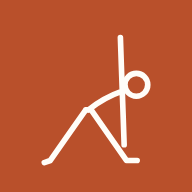
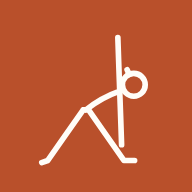
Add a nose to the stick figures to show facing
Side-view figures get a small tick on the head pointing the way the
body faces; figures facing the viewer get a dot. Poses where the head
is turned (twists, lateral standing poses, inversions) set their own
direction.

Claude-Session: https://claude.ai/code/session_01SKrVk6CvWgj4RE7AshMiyY

Changed region(s): [[0.1875, 0.1562, 0.8125, 0.875]]

diff --git a/js/asanas.js b/js/asanas.js
@@ -37,29 +37,29 @@ const A = [
   ['utkatasana', 'Utkatasana', 'Chair pose', 'standing', 0,
     { s: [72, 68], h: 68, a: [66, 66], l: [-35, -110, 0] }],
   ['utthita_trikonasana', 'Utthita Trikonasana', 'Triangle pose', 'standing', 1,
-    { v: 'f', lL: WIDE_L, lR: WIDE_R, s: [34, 24], h: 24, aL: [92, 92], aR: [-88, -88] }],
+    { v: 'f', lL: WIDE_L, lR: WIDE_R, s: [34, 24], h: 24, aL: [92, 92], aR: [-88, -88], n: 114 }],
   ['utthita_parsvakonasana', 'Utthita Parsvakonasana', 'Extended side angle', 'standing', 1,
-    { v: 'f', lL: LUNGE_L, lR: LUNGE_R, s: [48, 40], h: 44, aL: [36, 36], aR: { to: 'floor', dx: 0.4, fit: 1 } }],
+    { v: 'f', lL: LUNGE_L, lR: LUNGE_R, s: [48, 40], h: 44, aL: [36, 36], aR: { to: 'floor', dx: 0.4, fit: 1 }, n: 130 }],
   ['virabhadrasana_1', 'Virabhadrasana I', 'Warrior I', 'standing', 1,
     { s: [90, 94], h: 98, a: [92, 92], lR: [-8, -90, 0], lL: [-145, -145, 0] }],
   ['virabhadrasana_2', 'Virabhadrasana II', 'Warrior II', 'standing', 1,
-    { v: 'f', lL: LUNGE_L, lR: LUNGE_R, aL: [180, 180], aR: [0, 0] }],
+    { v: 'f', lL: LUNGE_L, lR: LUNGE_R, aL: [180, 180], aR: [0, 0], n: 0 }],
   ['virabhadrasana_3', 'Virabhadrasana III', 'Warrior III', 'standing', 1,
     { s: [0, 0], h: 8, a: [0, 0], lR: [-90, -90, 0], lL: [180, 180, [-90, 0.8]] }],
   ['ardha_chandrasana', 'Ardha Chandrasana', 'Half moon', 'standing', 1,
-    { v: 'f', s: [-8, -12], h: -6, lR: [-90, -90, 0], lL: [176, 176, [-90, 0.6]], aL: [90, 90], aR: { to: 'floor', dx: 0.2, fit: 1 } }],
+    { v: 'f', s: [-8, -12], h: -6, lR: [-90, -90, 0], lL: [176, 176, [-90, 0.6]], aL: [90, 90], aR: { to: 'floor', dx: 0.2, fit: 1 }, n: 84 }],
   ['parivrtta_trikonasana', 'Parivrtta Trikonasana', 'Revolved triangle', 'standing', 1,
-    { v: 'f', lL: [-118, -118, [-160, 0.6]], lR: [-62, -62, 0], s: [2, -8], h: 0, aL: [92, 92], aR: { to: 'floor', dx: 0.3, fit: 1 } }],
+    { v: 'f', lL: [-118, -118, [-160, 0.6]], lR: [-62, -62, 0], s: [2, -8], h: 0, aL: [92, 92], aR: { to: 'floor', dx: 0.3, fit: 1 }, n: 90 }],
   ['parivrtta_parsvakonasana', 'Parivrtta Parsvakonasana', 'Revolved side angle', 'standing', 1,
-    { s: [36, 30], h: 30, lR: [-8, -90, 0], lL: [-146, -146, [-60, 0.7]], aR: [30, 30], aL: { to: 'floor', dx: 0.2, fit: 1 } }],
+    { s: [36, 30], h: 30, lR: [-8, -90, 0], lL: [-146, -146, [-60, 0.7]], aR: [30, 30], aL: { to: 'floor', dx: 0.2, fit: 1 }, n: 120 }],
   ['parsvottanasana', 'Parsvottanasana', 'Intense side stretch', 'standing', 1,
     { s: [-52, -74], h: -82, lR: [-68, -68, 0], lL: [-112, -112, 0], a: { to: 'floor', dx: 0.5, fit: 1 } }],
   ['prasarita_padottanasana', 'Prasarita Padottanasana', 'Wide-legged forward bend', 'standing', 0,
-    { v: 'f', lL: WIDE_L, lR: [-55, -55, [-20, 0.6]], s: [[-90, 0.7], [-90, 0.7]], h: [-90, 0.95], aL: { to: 'floor', dx: 1.3, fit: 1 }, aR: { to: 'floor', dx: -1.3, fit: 1 } }],
+    { v: 'f', lL: WIDE_L, lR: [-55, -55, [-20, 0.6]], s: [[-90, 0.7], [-90, 0.7]], h: [-90, 0.95], aL: { to: 'floor', dx: 1.3, fit: 1 }, aR: { to: 'floor', dx: -1.3, fit: 1 }, n: null }],
   ['uttanasana', 'Uttanasana', 'Standing forward bend', 'standing', 0,
     { s: [-62, -86], h: -96, a: { to: 'floor', dx: -0.5, fit: 1 } }],
   ['ardha_uttanasana', 'Ardha Uttanasana', 'Half forward bend', 'standing', 0,
-    { s: [-22, -6], h: 14, a: { to: 'floor', dx: 0.1, fit: 1 } }],
+    { s: [-22, -6], h: 14, a: { to: 'floor', dx: 0.1, fit: 1 }, n: -30 }],
   ['padangusthasana', 'Padangusthasana', 'Big toe pose', 'standing', 0,
     { s: [-54, -78], h: -64, a: [[-150, 0.6], [-58, 0.86]] }],
   ['garudasana', 'Garudasana', 'Eagle pose', 'standing', 1,
@@ -67,7 +67,7 @@ const A = [
   ['utthita_hasta_padangusthasana', 'Utthita Hasta Padangusthasana', 'Hand to big toe', 'standing', 1,
     { lL: [-90, -90, 0], lR: [36, 36, 120], aR: { to: 'toeR', b: -1 }, aL: [-110, -70] }],
   ['utthita_parsva_hasta_padangusthasana', 'Utthita Parsva Hasta Padangusthasana', 'Hand to big toe, leg to the side', 'standing', 1,
-    { v: 'f', lL: [-90, -90], lR: [20, 20, [90, 0.6]], aR: { to: 'ankleR', fit: 1 }, aL: [180, 180] }],
+    { v: 'f', lL: [-90, -90], lR: [20, 20, [90, 0.6]], aR: { to: 'ankleR', fit: 1 }, aL: [180, 180], n: 180 }],
   ['parighasana', 'Parighasana', 'Gate pose', 'standing', 1,
     { v: 'f', lL: [-90, [-90, 0.06], [180, 0.5]], lR: [-31, -31, [60, 0.7]], s: [62, 36], h: 30, aL: [30, 10], aR: [-36, -30] }],
   ['malasana', 'Malasana', 'Garland squat', 'standing', 0,
@@ -121,13 +121,13 @@ const A = [
 
   // ---- twists ----
   ['bharadvajasana_1', 'Bharadvajasana I', 'Sage Bharadvaja twist', 'twist', 1,
-    { v: 'f', lL: [[-40, 0.5], [-176, 0.95], [180, 0.4]], lR: [[-55, 0.5], [-170, 0.8], [180, 0.4]], aL: { to: 'floor', dx: -1.5, fit: 1 }, aR: { to: 'kneeL', fit: 1, off: [0.3, 0.1] } }],
+    { v: 'f', lL: [[-40, 0.5], [-176, 0.95], [180, 0.4]], lR: [[-55, 0.5], [-170, 0.8], [180, 0.4]], aL: { to: 'floor', dx: -1.5, fit: 1 }, aR: { to: 'kneeL', fit: 1, off: [0.3, 0.1] }, n: 0 }],
   ['marichyasana_3', 'Marichyasana III', 'Sage Marichi III twist', 'twist', 1,
-    { lL: [0, 0, 90], lR: [62, -100, 0], aL: [-28, 82], aR: { to: 'floor', dx: -1.3, b: 1 } }],
+    { lL: [0, 0, 90], lR: [62, -100, 0], aL: [-28, 82], aR: { to: 'floor', dx: -1.3, b: 1 }, n: 180 }],
   ['ardha_matsyendrasana_1', 'Ardha Matsyendrasana I', 'Half lord of the fishes', 'twist', 1,
-    { lL: [-4, 176, 180], lR: [66, -96, 0], aL: [-30, 84], aR: { to: 'floor', dx: -1.3, b: 1 } }],
+    { lL: [-4, 176, 180], lR: [66, -96, 0], aL: [-30, 84], aR: { to: 'floor', dx: -1.3, b: 1 }, n: 180 }],
   ['jathara_parivartanasana', 'Jathara Parivartanasana', 'Revolved abdomen', 'twist', 1,
-    { v: 'f', top: 1, aL: [180, 180], aR: [0, 0], lL: [6, 4, [90, 0.5]], lR: [-10, -8, [90, 0.5]] }],
+    { v: 'f', top: 1, aL: [180, 180], aR: [0, 0], lL: [6, 4, [90, 0.5]], lR: [-10, -8, [90, 0.5]], n: 180 }],
 
   // ---- arms & core ----
   ['adho_mukha_svanasana', 'Adho Mukha Svanasana', 'Downward-facing dog', 'arm', 0,
@@ -145,11 +145,11 @@ const A = [
   ['chaturanga_dandasana', 'Chaturanga Dandasana', 'Four-limbed staff', 'arm', 0,
     { s: [3, 3], h: 8, l: [-175, -175, [-90, 1]], a: [176, [-90, 0.68]] }],
   ['vasisthasana', 'Vasisthasana', 'Side plank', 'arm', 1,
-    { v: 'f', s: [25.5, 25.5], h: 25.5, lL: [-154.5, -154.5, [-90, 1]], lR: [-154.5, -154.5, [-90, 1]], aL: [90, 90], aR: [-90, -90] }],
+    { v: 'f', s: [25.5, 25.5], h: 25.5, lL: [-154.5, -154.5, [-90, 1]], lR: [-154.5, -154.5, [-90, 1]], aL: [90, 90], aR: [-90, -90], n: 115 }],
   ['purvottanasana', 'Purvottanasana', 'Reverse plank', 'arm', 0,
     { s: [152, 152], h: 172, l: [-28, -28, -40], a: [-90, -90] }],
   ['bakasana', 'Bakasana', 'Crane pose', 'arm', 0,
-    { s: [-4, -26], h: 6, l: [-52, 160, -170], a: [-122, -98] }],
+    { s: [-4, -26], h: 6, l: [-52, 160, -170], a: [-122, -98], n: -40 }],
 
   // ---- backbends ----
   ['bhujangasana', 'Bhujangasana', 'Cobra', 'backbend', 0,
@@ -177,15 +177,15 @@ const A = [
 
   // ---- inversions ----
   ['adho_mukha_vrksasana', 'Adho Mukha Vrksasana', 'Handstand', 'inversion', 0,
-    { s: [-90, -90], h: -90, l: [90, 90, 90], a: [-90, -90] }],
+    { s: [-90, -90], h: -90, l: [90, 90, 90], a: [-90, -90], n: 0 }],
   ['pincha_mayurasana', 'Pincha Mayurasana', 'Forearm balance', 'inversion', 0,
-    { s: [-90, -90], h: [-100, 0.8], l: [90, 90, 90], a: [-90, 0] }],
+    { s: [-90, -90], h: [-100, 0.8], l: [90, 90, 90], a: [-90, 0], n: 0 }],
   ['salamba_sirsasana', 'Salamba Sirsasana', 'Headstand', 'inversion', 0,
-    { s: [-90, -90], h: -90, l: [90, 90, 90], a: [[-72, 1], [180, 0.3]] }],
+    { s: [-90, -90], h: -90, l: [90, 90, 90], a: [[-72, 1], [180, 0.3]], n: 0 }],
   ['urdhva_dandasana', 'Urdhva Dandasana', 'Upward staff in headstand', 'inversion', 0,
-    { s: [-90, -90], h: -90, l: [0, 0, 90], a: [[-72, 1], [180, 0.3]] }],
+    { s: [-90, -90], h: -90, l: [0, 0, 90], a: [[-72, 1], [180, 0.3]], n: 0 }],
   ['eka_pada_sirsasana', 'Eka Pada Sirsasana', 'One leg down in headstand', 'inversion', 1,
-    { s: [-90, -90], h: -90, lL: [90, 90, 90], lR: [-50, -50, [-90, 0.6]], a: [[-72, 1], [180, 0.3]] }],
+    { s: [-90, -90], h: -90, lL: [90, 90, 90], lR: [-50, -50, [-90, 0.6]], a: [[-72, 1], [180, 0.3]], n: 0 }],
   ['salamba_sarvangasana', 'Salamba Sarvangasana', 'Shoulderstand', 'inversion', 0,
     { s: [-90, -90], h: 180, l: [90, 90, 90], a: [0, [98, 0.72]] }],
   ['eka_pada_sarvangasana', 'Eka Pada Sarvangasana', 'One-legged shoulderstand', 'inversion', 1,
@@ -205,9 +205,9 @@ const A = [
   ['supta_padangusthasana_1', 'Supta Padangusthasana I', 'Reclining hand to big toe', 'supine', 1,
     { s: [180, 180], h: 180, lL: [0, 0, 40], lR: [112, 112, 200], aR: { to: 'toeR', fit: 1 }, aL: [-8, 0] }],
   ['supta_padangusthasana_2', 'Supta Padangusthasana II', 'Reclining leg to the side', 'supine', 1,
-    { v: 'f', top: 1, lL: [-90, -90, [-90, 0.4]], lR: [14, 14, [90, 0.5]], aR: { to: 'ankleR', fit: 1 }, aL: [180, 180] }],
+    { v: 'f', top: 1, lL: [-90, -90, [-90, 0.4]], lR: [14, 14, [90, 0.5]], aR: { to: 'ankleR', fit: 1 }, aL: [180, 180], n: 180 }],
   ['supta_padangusthasana_3', 'Supta Padangusthasana III', 'Reclining twist, leg across the body (Parivrtta)', 'supine', 1,
-    { v: 'f', top: 1, lL: [-90, -90, [-90, 0.4]], lR: [166, 166, [90, 0.5]], aL: { to: 'ankleR', fit: 1 }, aR: [0, 0] }],
+    { v: 'f', top: 1, lL: [-90, -90, [-90, 0.4]], lR: [166, 166, [90, 0.5]], aL: { to: 'ankleR', fit: 1 }, aR: [0, 0], n: 0 }],
   ['pavanamuktasana', 'Pavanamuktasana', 'Knees to chest (Apanasana)', 'supine', 0,
     { s: [180, 180], h: 180, l: [128, -8, 30], a: { to: 'kneeR', fit: 1, off: [0.5, 0] } }],
   ['supta_tadasana', 'Supta Tadasana', 'Reclining mountain, arms overhead', 'supine', 0,
@@ -215,7 +215,7 @@ const A = [
   ['urdhva_prasarita_padasana', 'Urdhva Prasarita Padasana', 'Upward extended legs', 'supine', 0,
     { s: [180, 180], h: 180, l: [90, 90, 180], a: [178, 180] }],
   ['anantasana', 'Anantasana', 'Side-reclining leg lift', 'supine', 1,
-    { s: [180, 180], h: [146, 1], lL: [0, 0, 30], lR: [108, 108, 200], aR: { to: 'toeR', fit: 1 }, aL: [[180, 0.6], [86, 0.5]] }],
+    { s: [180, 180], h: [146, 1], lL: [0, 0, 30], lR: [108, 108, 200], aR: { to: 'toeR', fit: 1 }, aL: [[180, 0.6], [86, 0.5]], n: 'c' }],
 ];
 
 export const ASANAS = A.map(([id, name, en, cat, sided, pose]) => ({ id, name, en, cat, sided: !!sided, pose }));

diff --git a/js/figure.js b/js/figure.js
@@ -7,6 +7,7 @@
 const LEN = { s1: 1.45, s2: 1.45, neck: 1.15, head: 0.85, ua: 1.95, fa: 2.05, th: 2.35, sh: 2.25, ft: 0.8 };
 const LINE = 0.26; // stroke width, in figure units
 const HALF = LINE / 2;
+const NOSE = 0.38; // length of the nose tick
 
 const rad = (d) => (d * Math.PI) / 180;
 const vec = (deg, len = 1) => [Math.cos(rad(deg)) * len, Math.sin(rad(deg)) * len];
@@ -105,7 +106,7 @@ export function solve(p) {
 function bounds(J) {
   let x0 = Infinity, x1 = -Infinity, y1 = -Infinity;
   for (const [k, pt] of Object.entries(J)) {
-    const r = k === 'H' ? LEN.head + HALF : HALF;
+    const r = k === 'H' ? LEN.head + HALF + NOSE : HALF;
     x0 = Math.min(x0, pt[0] - r);
     x1 = Math.max(x1, pt[0] + r);
     y1 = Math.max(y1, pt[1] + r);
@@ -137,6 +138,14 @@ export function poseSVG(p, opts = {}) {
     d += line(J['sh' + sd], J['elbow' + sd], J['hand' + sd]);
   }
   const H = S(J.H);
+  // nose: shows which way the figure faces. Side views face along the body's
+  // front; front and top views face the viewer (a dot) unless the pose says
+  // where the head is turned (p.n = angle, or null for a hidden face).
+  const headAngle = seg(p.h ?? seg((p.s ?? [90, 90])[1])[0])[0];
+  const facing = p.n !== undefined ? p.n : p.v === 'f' ? 'c' : headAngle - 90;
+  let nose = '';
+  if (facing === 'c') nose = `<circle class="fd" cx="${f(H[0])}" cy="${f(H[1])}" r="0.17"/>`;
+  else if (facing !== null) nose = `<path class="fk" d="${line(add(J.H, vec(facing, LEN.head)), add(J.H, vec(facing, LEN.head + NOSE)))}"/>`;
   let props = '';
   for (const pr of p.props ?? []) {
     if (pr[0] === 'wall') {
@@ -146,7 +155,7 @@ export function poseSVG(p, opts = {}) {
   }
   const flip = opts.mirror ? ` transform="translate(${f(size)} 0) scale(-1 1)"` : '';
   return `<svg class="fig" viewBox="0 0 ${f(size)} ${f(size)}" aria-hidden="true"><g${flip} stroke-width="${LINE}">${props}` +
-    `<path class="fk" d="${d}"/><circle class="fh" cx="${f(H[0])}" cy="${f(H[1])}" r="${LEN.head}"/></g></svg>`;
+    `<path class="fk" d="${d}"/><circle class="fh" cx="${f(H[0])}" cy="${f(H[1])}" r="${LEN.head}"/>${nose}</g></svg>`;
 }
 
 // Plain skeleton as strokes (screen coords, y down) for seeding the recognizer.

diff --git a/css/app.css b/css/app.css
@@ -64,6 +64,7 @@ h1, h2, h3 { font-family: var(--serif); font-weight: 600; margin: 0; letter-spac
 .fig { display: block; width: 100%; height: 100%; }
 .fk { fill: none; stroke: var(--fig-body); stroke-linecap: round; stroke-linejoin: round; }
 .fh { fill: var(--gap); stroke: var(--fig-body); }
+.fd { fill: var(--fig-body); stroke: none; }
 .fw { stroke: var(--floor); stroke-width: 0.2; stroke-linecap: round; }
 .fs { fill: none; stroke: var(--fig-body); stroke-linecap: round; stroke-linejoin: round; }
 

diff --git a/js/app.js b/js/app.js
@@ -4,7 +4,7 @@ import { toCloud, mirrorCloud, distance, recognize } from './recognizer.js';
 import { createPad } from './pad.js';
 import * as store from './store.js';
 
-const VERSION = '1.2.0';
+const VERSION = '1.3.0';
 const app = document.getElementById('app');
 const layer = document.getElementById('layer');
 

diff --git a/sw.js b/sw.js
@@ -1,6 +1,6 @@
 // Offline support: every file the app needs is stored on the device at
 // install time. Bump VERSION whenever the app's files change.
-const VERSION = 'ypj-1.2.0';
+const VERSION = 'ypj-1.3.0';
 const FILES = [
   './',
   'index.html',
